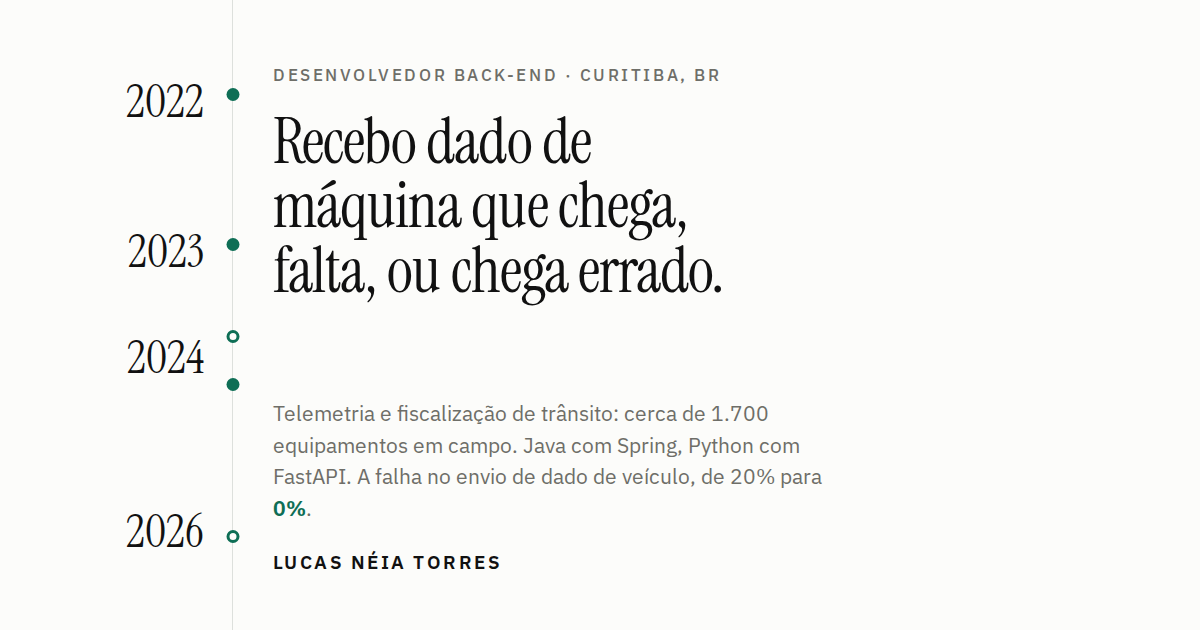
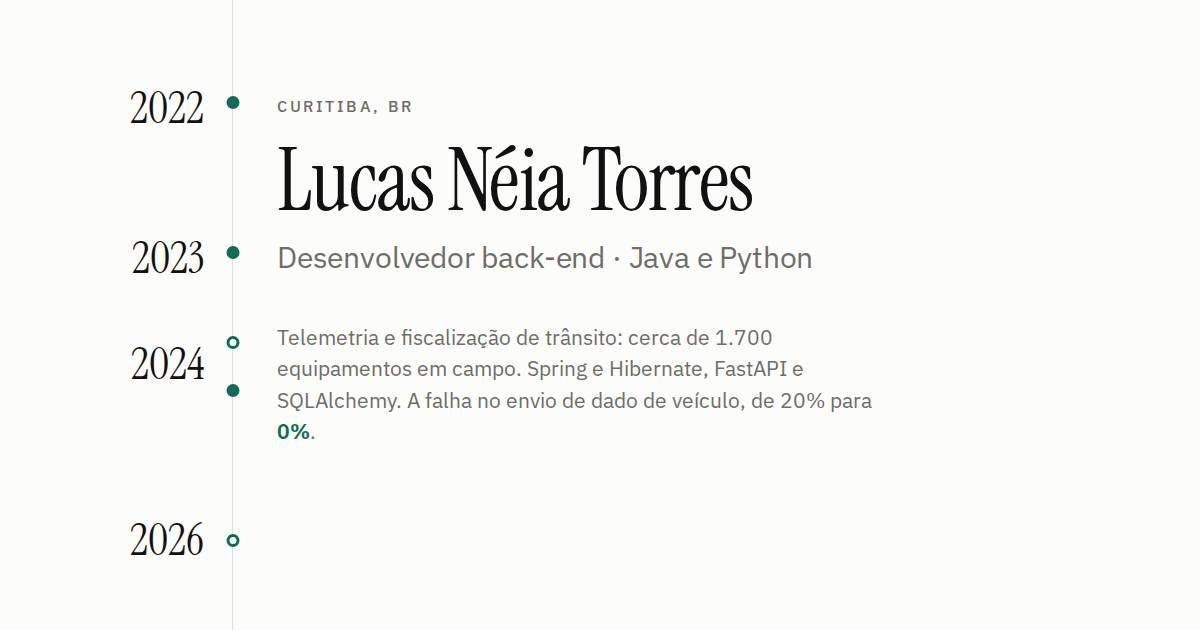
content: open the page with the name instead of a claim sentence
The h1 was a first-person sentence about the current job, which does not
travel to another employer and was not the tone Lucas wanted. The name now
carries the opening, with the role as its subtitle, and the axis below does
the work of showing substance.

- h1 reads site.name, so the name has one source
- opening.headline replaced by opening.role in both locales
- masthead drops its name: it sat a hundred pixels above the same words
- open graph image regenerated to match, with its generator now versioned
  as public/og.source.html

diff --git a/public/og.source.html b/public/og.source.html
@@ -1,0 +1,33 @@
+<style>
+@font-face{font-family:"Instrument Serif";src:url("file:///home/lucas-torres/ws/pessoal/lucasneiatorres.github.io/public/fonts/instrument-serif-latin.woff2") format("woff2");}
+@font-face{font-family:"IBM Plex Sans";font-weight:400 600;src:url("file:///home/lucas-torres/ws/pessoal/lucasneiatorres.github.io/public/fonts/ibm-plex-sans-latin.woff2") format("woff2");}
+*{box-sizing:border-box;margin:0}
+body{width:1200px;height:630px;background:#fcfcfa;color:#111;font-family:"IBM Plex Sans",sans-serif;
+     display:grid;grid-template-columns:232px 1px 1fr;overflow:hidden}
+.years{text-align:right;padding:64px 28px 64px 0;font-family:"Instrument Serif",serif;font-size:44px;line-height:1;
+       display:flex;flex-direction:column;color:#111;font-variant-numeric:tabular-nums}
+.y1{margin-top:22px}.y2{margin-top:106px}.y3{margin-top:62px}.y4{margin-top:132px}
+.axis{background:#dde0dc;position:relative}
+.d{position:absolute;left:50%;transform:translateX(-50%);width:13px;height:13px;border-radius:50%;background:#0e6e55}
+.r{background:#fcfcfa;border:3px solid #0e6e55}
+.body{padding:96px 72px 62px 44px;display:flex;flex-direction:column}
+.eye{font-size:16px;letter-spacing:.16em;text-transform:uppercase;color:#6e6e68;font-weight:500}
+h1{font-family:"Instrument Serif",serif;font-weight:400;font-size:86px;line-height:1;letter-spacing:-.018em;margin-top:22px}
+.role{margin-top:14px;font-size:30px;line-height:1.25;color:#6e6e68;letter-spacing:-.006em}
+.sub{margin-top:46px;font-size:21px;line-height:1.5;color:#6e6e68;max-width:46ch}
+b{color:#0e6e55;font-weight:600}
+</style>
+<div class="years"><span class="y1">2022</span><span class="y2">2023</span><span class="y3">2024</span><span class="y4">2026</span></div>
+<div class="axis">
+  <div class="d" style="top:96px"></div>
+  <div class="d" style="top:246px"></div>
+  <div class="d r" style="top:336px"></div>
+  <div class="d" style="top:384px"></div>
+  <div class="d r" style="top:534px"></div>
+</div>
+<div class="body">
+  <p class="eye">Curitiba, BR</p>
+  <h1>Lucas Néia Torres</h1>
+  <p class="role">Desenvolvedor back-end · Java e Python</p>
+  <p class="sub">Telemetria e fiscalização de trânsito: cerca de 1.700 equipamentos em campo. Spring e Hibernate, FastAPI e SQLAlchemy. A falha no envio de dado de veículo, de 20% para <b>0%</b>.</p>
+</div>

diff --git a/src/data/en.ts b/src/data/en.ts
@@ -10,8 +10,8 @@ export const en: Dict = {
   nav: { path: "Timeline", stack: "Stack", contact: "Contact", skip: "Skip to content" },
 
   opening: {
-    eyebrow: "Back-end developer · Curitiba, Brazil",
-    headline: "I take in machine data that arrives, goes missing, or arrives wrong.",
+    eyebrow: "Curitiba, Brazil",
+    role: "Back-end developer · Java and Python",
     body: [
       "At FiscalTech I work on telemetry and traffic enforcement: roughly 1,700 devices in the field sending data around the clock, and a server that has to receive all of it. Java with Spring and Python with FastAPI, over PostgreSQL and Oracle.",
       "The problem that taught me the most was exactly that one — vehicle data getting lost between the embedded systems and the server, a 20% failure rate on delivery. I traced the bottleneck in the integration path, rewrote the communication routine, and the rate went to *0%*.",

diff --git a/src/data/pt.ts b/src/data/pt.ts
@@ -10,8 +10,8 @@ export const pt: Dict = {
   nav: { path: "Percurso", stack: "Stack", contact: "Contato", skip: "Ir para o conteúdo" },
 
   opening: {
-    eyebrow: "Desenvolvedor back-end · Curitiba, BR",
-    headline: "Recebo dado de máquina que chega, falta, ou chega errado.",
+    eyebrow: "Curitiba, BR",
+    role: "Desenvolvedor back-end · Java e Python",
     body: [
       "Na FiscalTech trabalho com telemetria e fiscalização de trânsito: cerca de 1.700 equipamentos em campo mandando dado 24 horas por dia, e um servidor que precisa receber tudo. Java com Spring e Python com FastAPI, sobre PostgreSQL e Oracle.",
       "O problema que mais me ensinou foi esse — dado de veículo se perdendo entre o sistema embarcado e o servidor, 20% de falha no envio. Diagnostiquei o gargalo no fluxo de integração, reescrevi a rotina de comunicação, e a taxa foi para *0%*.",

diff --git a/src/data/types.ts b/src/data/types.ts
@@ -33,7 +33,8 @@ export interface Dict {
   htmlLang: string;
   meta: { title: string; description: string };
   nav: { path: string; stack: string; contact: string; skip: string };
-  opening: { eyebrow: string; headline: string; body: string[] };
+  /** O H1 é o nome (site.name). `role` é a linha de cargo logo abaixo dele. */
+  opening: { eyebrow: string; role: string; body: string[] };
   axis: {
     heading: string;
     legend: { work: string; project: string; edu: string };
